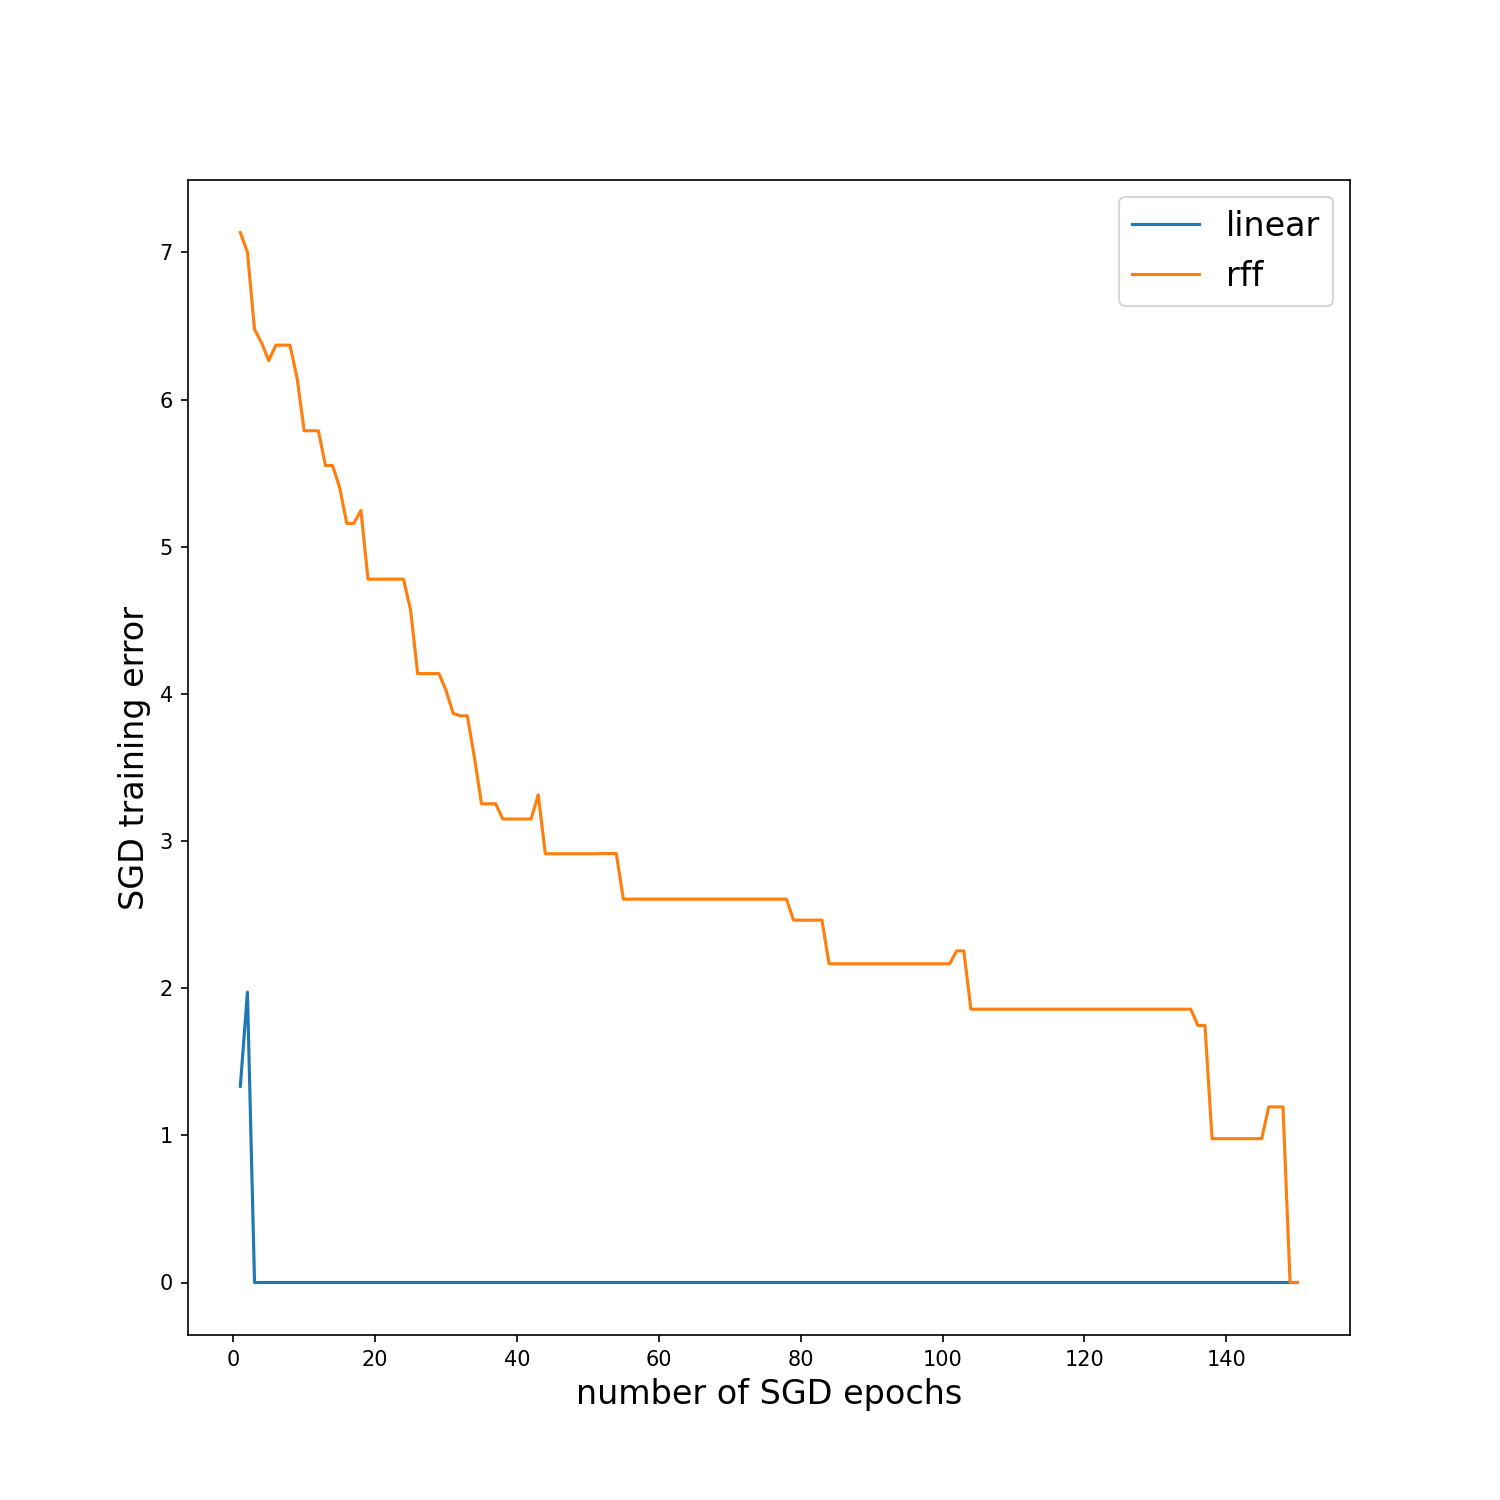
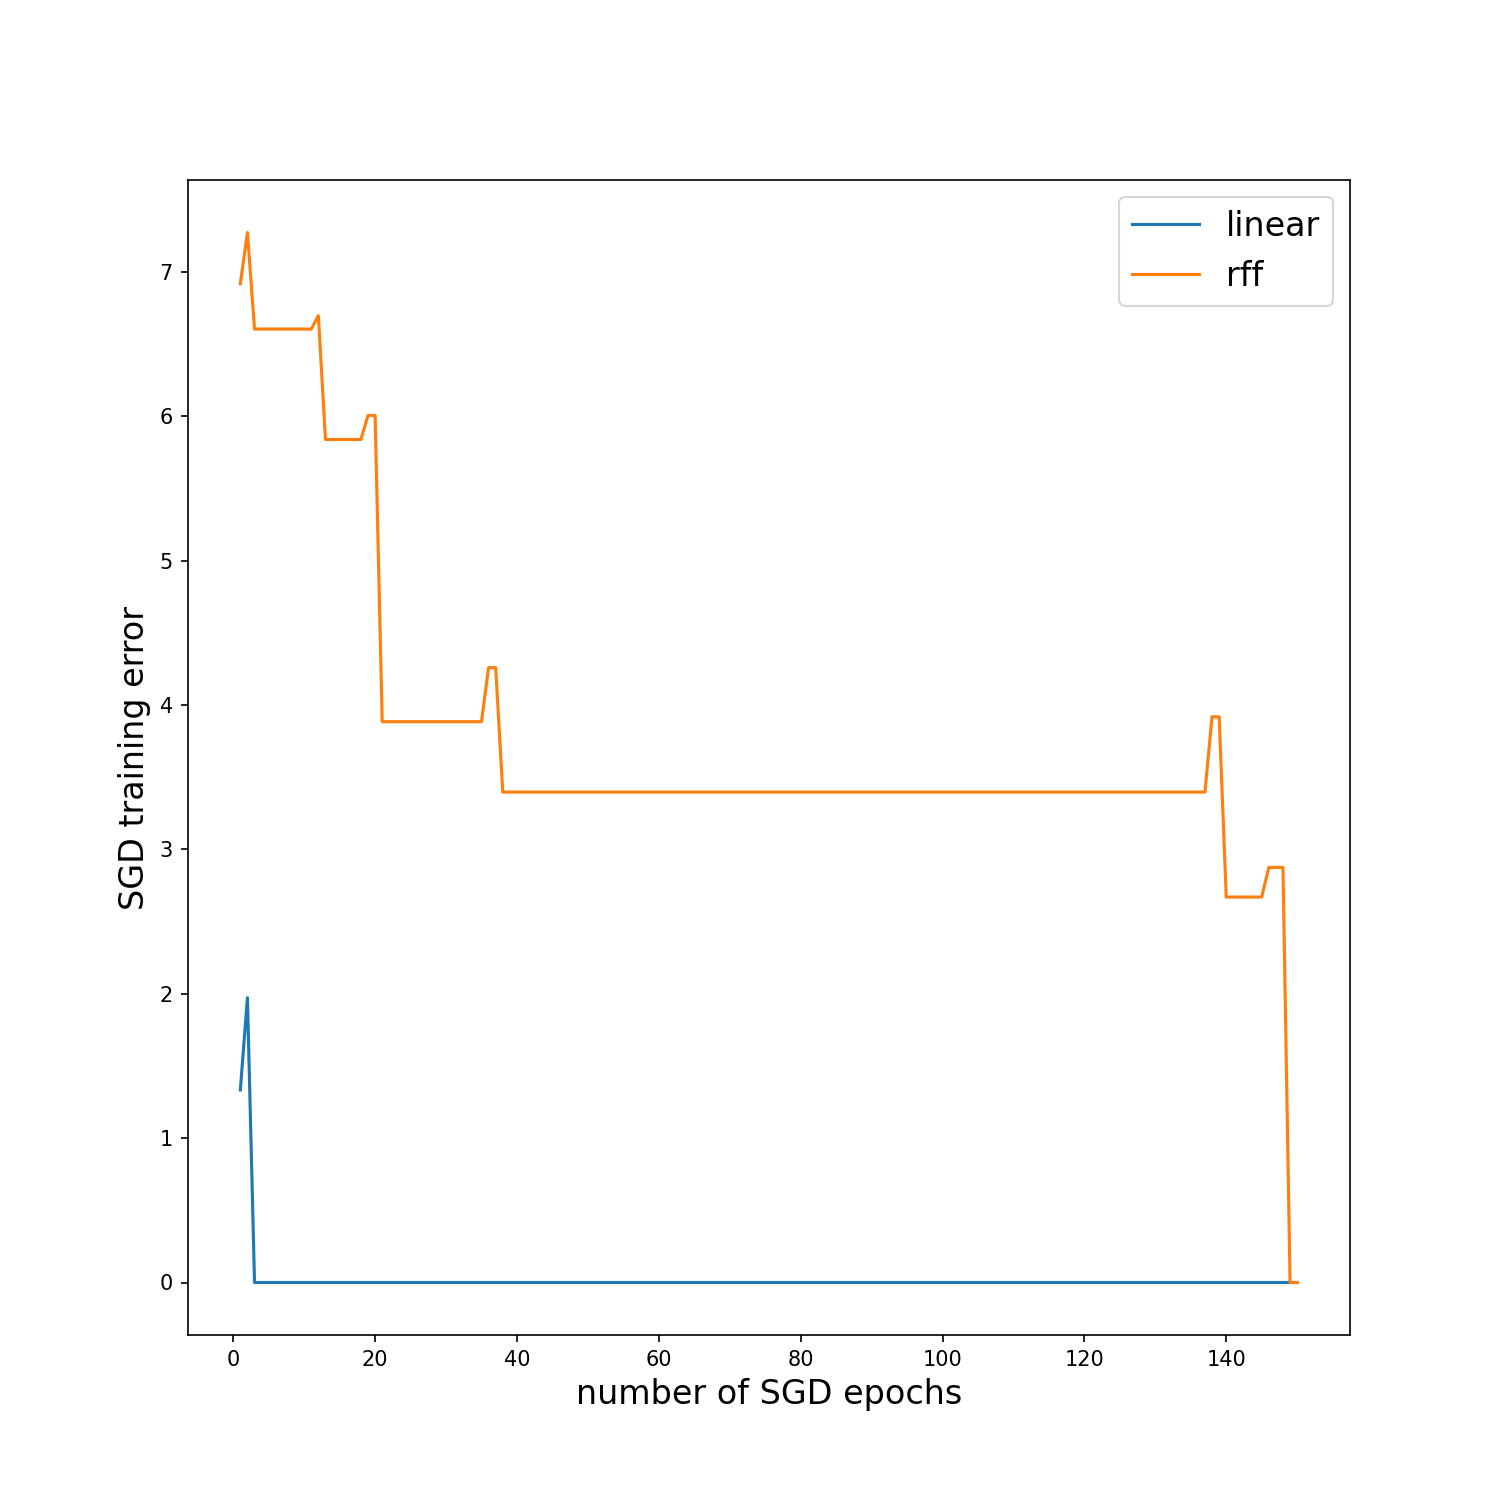
Ray works!!!

diff --git a/runner_mnist.py b/runner_mnist.py
@@ -53,8 +53,8 @@ def runner_mnist(path):
 
     # run sequential linear svm with optimized learning rate and regularisation parameter
     _, runtime, accuracy = sequential_svm(X_train, X_test, y_train, y_test, lr, reg)
-    print('Runtime with best parameters: {}'.format(runtime))
-    print('Accuracy with best parameters: {}'.format(accuracy))
+    print('Runtime with best parameters: {}'.format(round(runtime, 4)))
+    print('Accuracy with best parameters: {}'.format(round(accuracy, 4)))
 
     # run gridsearch on parallel linear svm with fixed number of 8 machines
     print('\n--- Parallel Linear SVM ---')
@@ -64,13 +64,13 @@ def runner_mnist(path):
 
     # run parallel linear svm with optimized learning rate and regularisation parameter with fixed number of 8 machines
     _, runtime, accuracy = parallel_svm(X_train, X_test, y_train, y_test, lr, reg)
-    print('Runtime with best parameters: {}'.format(runtime))
-    print('Accuracy with best parameters: {}'.format(accuracy))
+    print('Runtime with best parameters: {}'.format(round(runtime, 4)))
+    print('Accuracy with best parameters: {}'.format(round(accuracy, 4)))
 
     # run parallel linear svm with increasing number of machines
     # this run takes into account the learning rate and the regularisation parameter of the previous gridsearch
     print('Running parallel linear svm with increasing number of machines...')
-    number_of_machines = [1, 2, 3, 4, 5, 6, 7, 8]
+    number_of_machines = [1, 2, 3, 4]
     parallel_runtimes = []
     parallel_accuracies = []
     for num_threads in number_of_machines:
@@ -88,7 +88,7 @@ def runner_mnist(path):
     # create RFF features for the upcoming gridsearch procedure
     print('\n--- Compute RFF features ---')
     start = time.time()
-    nlf = NonLinearFeatures(m=1000, sigma=150)
+    nlf = NonLinearFeatures(m=1000, sigma=200)
     X_rff_train = nlf.fit_transform(X_train)
     X_rff_test = nlf.transform(X_test)
     end = time.time()
@@ -100,7 +100,7 @@ def runner_mnist(path):
     # run gridsearch on RFF feature hyperparameters (m, sigma) with optimized learning rate and regularisation parameter
     print('\n--- RFF Gridsearch ---')
     m_params = [1000, 2000, 3000]
-    sigma_params = [1, 100, 150, 200, 1000]
+    sigma_params = [1, 100, 200, 300, 1000]
     m_seq, sigma_seq = gridsearch_rff(sequential_svm, X_train, X_test, y_train, y_test, lr_seq, reg_seq,  m_params,
                                       sigma_params)
     print('Best feature dimension m: {}'.format(m_seq))
@@ -120,8 +120,8 @@ def runner_mnist(path):
     print('Best learning rate: {}'.format(lr_seq))
     print('Best regularization parameter: {}'.format(reg_seq))
     _, runtime, accuracy = sequential_svm(X_rff_train, X_rff_test, y_train, y_test, lr_seq, reg_seq)
-    print('Runtime with best parameters: {}'.format(runtime))
-    print('Accuracy with best parameters: {}'.format(accuracy))
+    print('Runtime with best parameters: {}'.format(round(runtime, 4)))
+    print('Accuracy with best parameters: {}'.format(round(accuracy, 4)))
 
     # run gridsearch on parallel RFF svm
     print('\n--- Parallel RFF SVM ---')
@@ -131,8 +131,8 @@ def runner_mnist(path):
 
     # run parallel RFF svm with optimized learning rate, regularisation parameter, feature dimension m, and sigma
     _, runtime, accuracy = parallel_svm(X_rff_train, X_rff_test, y_train, y_test, lr, reg)
-    print('Runtime with best parameters: {}'.format(runtime))
-    print('Accuracy with best parameters: {}'.format(accuracy))
+    print('Runtime with best parameters: {}'.format(round(runtime, 4)))
+    print('Accuracy with best parameters: {}'.format(round(accuracy, 4)))
 
     # make plots for runtime/performance comparison when training on 1000, 2000, 3000 training samples
     # and using own implementation vs. sklearn's svm.svc
@@ -157,13 +157,13 @@ def runner_mnist(path):
     axs[0].semilogy(training_size, runtimes_sklearn, label='sklearn')
     axs[0].set_xticks(training_size)
     axs[0].set_ylabel('runtime in seconds', fontsize=16)
-    axs[0].legend(fontsize=16)
+    axs[0].legend(fontsize=16, bbox_to_anchor=(1.02, 1))
     axs[1].plot(training_size, accuracies_sequential_rff, label='sequential RFF')
     axs[1].plot(training_size, accuracies_sklearn, label='sklearn')
     axs[1].set_xticks(training_size)
     axs[1].set_xlabel('training set size', fontsize=16)
     axs[1].set_ylabel('accuracy', fontsize=16)
-    axs[1].legend(fontsize=16)
-    plt.savefig('output/mnist_sequential_rff_vs_sklearn.png', dpi=150)
+    #axs[1].legend(fontsize=16, bbox_to_anchor=(1.04,1))
+    plt.savefig('output/mnist_sequential_rff_vs_sklearn.png', dpi=150, bbox_inches="tight")
 
     return number_of_machines, parallel_runtimes, parallel_accuracies

diff --git a/svm.py b/svm.py
@@ -1,4 +1,5 @@
 import numpy as np
+import ray
 
 
 class SequentialSVM:
@@ -42,7 +43,8 @@ class SequentialSVM:
 
             Returns
             -------
-            w : ndarray of shape m (binary classification), or (m, c) (multiclass classification)
+            w : ndarray of shape (m features) (binary classification), or (m features, c classes) (multiclass
+                classification).
                 An initial array of the specific dimension containing zeros.
         """
         if self.multiclass:
@@ -65,16 +67,16 @@ class SequentialSVM:
             Parameters
             ----------
             x : ndarray of shape (m features,)
-                training sample
+                Training sample
             y : float
-                label of the training sample
+                Label of the training sample
             w : ndarray of shape (m features,) or (m features, c classes)
-                current weight vector
+                Current weight vector
 
             Returns
             -------
             w : ndarray of shape (m features,) or (m features, c classes)
-                the updated weight vector
+                The updated weight vector
         """
         if self.multiclass:
             val = 0
@@ -192,7 +194,8 @@ class SequentialSVM:
 
 
 class ParallelSVM(SequentialSVM):
-    def __init__(self, learning_rate=1e-3, regularization_parameter=1e-2, num_threads=8):
+
+    def __init__(self, learning_rate=1e-3, regularization_parameter=1e-2, num_threads=4):
         """
         Parallel version of the SVM classifier class. The class takes one additional argument, which is the number of
         threads for the parallel SGD optimizer.
@@ -207,14 +210,14 @@ class ParallelSVM(SequentialSVM):
                 Number of threads for the parallelization
         """
         SequentialSVM.__init__(self, learning_rate, regularization_parameter)
-        self.n_threads = num_threads
+        self.num_threads = num_threads
 
     def fit(self, X, y):
         """
         Fit the SVM classifier to the given training data. The parallelized SGD algorithm splits the given data into
         approximately equally sized subsets. The number of subsets equals the number of threads. The runner is called
-        on each of the subsets. The final weight vector is the average of multiple runner jobs. It is stored within the
-        class for further label prediction of given test data.
+        on each of the subsets. The final weight vector w is the average of multiple runner jobs. It is stored within
+        the class for further label prediction of given test data.
 
             Parameters
             ----------
@@ -239,17 +242,42 @@ class ParallelSVM(SequentialSVM):
         b = np.ones((n_samples, 1))
         X = np.concatenate((X, b), axis=1)
 
-        sample_to_thread = np.random.randint(0, self.n_threads, n_samples)
-        Xs = [X[sample_to_thread == i] for i in range(self.n_threads)]
-        ys = [y[sample_to_thread == i] for i in range(self.n_threads)]
+        sample_to_thread = np.random.randint(0, self.num_threads, n_samples)
+        Xs = [X[sample_to_thread == i] for i in range(self.num_threads)]
+        ys = [y[sample_to_thread == i] for i in range(self.num_threads)]
 
-        ws = []
-        for Xi, yi in zip(Xs, ys):
-            ws.append(self.runner(Xi, yi))
+        ws = ray.get([self.runner.remote(self, Xi, yi) for Xi, yi in zip(Xs, ys)])
 
-        #ws = Parallel(n_jobs=self.n_threads, backend='threading')(delayed(self.runner)(Xi, yi) for Xi, yi in zip(Xs, ys))
+        self.w = sum(ws) / self.num_threads  # compute w by taking the average of sub_ws
 
-        self.w = sum(ws) / self.n_threads  # compute w by taking the average of sub_ws
+    @ray.remote
+    def runner(self, X, y):
+        """
+        Run the SGD optimizer on the given training data and return a weight vector w, which determines the decision
+        boundary.
+
+            Parameters
+            ----------
+            X : ndarray of shape (n samples, m features)
+                Training data
+            y : ndarray of shape (n samples,)
+                Training data labels
+
+            Returns
+            -------
+            w : ndarray of shape (m features,) or (m features, c classes)
+                the weight vector of the decision boundary
+        """
+        w = self._init_weights(X)
+
+        if self.store_sgd_progress:
+            for idx, x in enumerate(X):
+                self.stored_weights.append(np.array(w))
+                w = self._update_weights(x, y[idx], w)
+        else:
+            for idx, x in enumerate(X):
+                w = self._update_weights(x, y[idx], w)
+        return w
 
 
 class NonLinearFeatures:

diff --git a/runner_toydata.py b/runner_toydata.py
@@ -60,8 +60,8 @@ def runner_toydata(path, tiny):
     print('Best regularization parameter: {}'.format(reg))
     y_pred_seq_linear, runtime, accuracy = five_fold_cross_validation(sequential_svm, X_train, X_test, y_train,
                                                                       y_test, lr, reg)
-    print('Runtime with best parameters: {}'.format(runtime))
-    print('Accuracy with best parameters: {}'.format(accuracy))
+    print('Runtime with best parameters: {}'.format(round(runtime, 4)))
+    print('Accuracy with best parameters: {}'.format(round(accuracy, 4)))
     sgd_progress_linear = sgd_progress(sequential_svm, X_train, X_test, y_train, y_test, lr, reg)
 
     # run parallel linear svm
@@ -71,12 +71,12 @@ def runner_toydata(path, tiny):
     print('Best regularization parameter: {}'.format(reg))
     y_pred_par_linear, runtime, accuracy = five_fold_cross_validation(parallel_svm, X_train, X_test,
                                                                       y_train, y_test, lr, reg)
-    print('Runtime with best parameters: {}'.format(runtime))
-    print('Accuracy with best parameters: {}'.format(accuracy))
+    print('Runtime with best parameters: {}'.format(round(runtime, 4)))
+    print('Accuracy with best parameters: {}'.format(round(accuracy, 4)))
 
     # run parallel linear svm with increasing number of machines
     print('Running parallel linear svm with increasing number of machines...')
-    number_of_machines = [1, 2, 3, 4, 5, 6, 7, 8]
+    number_of_machines = [1, 2, 3, 4]
     parallel_runtimes = []
     parallel_accuracies = []
     for num_threads in number_of_machines:
@@ -103,8 +103,8 @@ def runner_toydata(path, tiny):
     print('Best regularization parameter: {}'.format(reg))
     y_pred_seq_rff, runtime, accuracy = five_fold_cross_validation(sequential_svm, X_rff_train, X_rff_test,
                                                                    y_train, y_test, lr, reg)
-    print('Runtime with best parameters: {}'.format(runtime))
-    print('Accuracy with best parameters: {}'.format(accuracy))
+    print('Runtime with best parameters: {}'.format(round(runtime, 4)))
+    print('Accuracy with best parameters: {}'.format(round(accuracy, 4)))
     sgd_progress_rff = sgd_progress(sequential_svm, X_rff_train, X_rff_test, y_train, y_test, lr, reg)
 
     # run parallel RFF svm
@@ -115,8 +115,8 @@ def runner_toydata(path, tiny):
     y_pred_par_rff, runtime, accuracy = five_fold_cross_validation(parallel_svm, X_rff_train, X_rff_test,
                                                                    y_train, y_test, lr, reg)
 
-    print('Runtime with best parameters: {}'.format(runtime))
-    print('Accuracy with best parameters: {}'.format(accuracy))
+    print('Runtime with best parameters: {}'.format(round(runtime, 4)))
+    print('Accuracy with best parameters: {}'.format(round(accuracy, 4)))
 
     # ---------- Plot results ----------
 

diff --git a/runner_svm_models.py b/runner_svm_models.py
@@ -1,6 +1,7 @@
 from sklearn.metrics import accuracy_score
 from sklearn.svm import SVC
 import time
+import ray
 
 from svm import SequentialSVM, ParallelSVM
 
@@ -80,7 +81,7 @@ def sequential_svm(X_train, X_test, y_train, y_test, learning_rate, regularizati
         return y_predicted, runtime, accuracy
 
 
-def parallel_svm(X_train, X_test, y_train, y_test, learning_rate, regularization, num_threads=8):
+def parallel_svm(X_train, X_test, y_train, y_test, learning_rate, regularization, num_threads=4):
     """
     Train the own parallel implementation of an SVC, predict labels, and calculate the accuracy on given test set.
 
@@ -111,7 +112,7 @@ def parallel_svm(X_train, X_test, y_train, y_test, learning_rate, regularization
     clf.fit(X_train, y_train)
     y_predicted = clf.predict(X_test)
     end = time.time()
-    runtime = (end - start) / num_threads
+    runtime = end - start
     accuracy = accuracy_score(y_test, y_predicted)
 
     return y_predicted, runtime, accuracy

diff --git a/utils.py b/utils.py
@@ -297,6 +297,7 @@ def plot_parallel_runtimes(number_of_machines_tiny, number_of_machines_large, nu
     plt.plot(number_of_machines_large, parallel_runtimes_large)
     plt.plot(number_of_machines_mnist, parallel_runtimes_mnist)
     plt.xlabel('Number of machines', fontsize=16)
+    plt.xticks(number_of_machines_tiny)
     plt.ylabel('Runtime in seconds', fontsize=16)
     plt.legend(['tiny toydata', 'large toydata', 'MNIST'], fontsize=16)
     plt.savefig(path, dpi=150)
@@ -327,6 +328,7 @@ def plot_parallel_accuracies(number_of_machines_tiny, number_of_machines_large, 
     plt.plot(number_of_machines_large, parallel_accuracies_large)
     plt.plot(number_of_machines_mnist, parallel_accuracies_mnist)
     plt.xlabel('Number of machines', fontsize=16)
+    plt.xticks(number_of_machines_tiny)
     plt.ylabel('Accuracy', fontsize=16)
     plt.legend(['tiny toydata', 'large toydata', 'MNIST'], fontsize=16)
     plt.savefig(path, dpi=150)

diff --git a/main.py b/main.py
@@ -2,8 +2,12 @@ from runner_toydata import runner_toydata
 from runner_mnist import runner_mnist
 from utils import plot_parallel_runtimes, plot_parallel_accuracies
 
+import ray
+
 
 if __name__ == '__main__':
+    # initialize parallelization library
+    ray.init()
 
     # set paths
     toy_tiny = 'data/toydata_tiny.csv'
@@ -22,3 +26,6 @@ if __name__ == '__main__':
     plot_parallel_accuracies(number_of_machines_tiny, number_of_machines_large, number_of_machines_mnist,
                              parallel_accuracies_tiny, parallel_accuracies_large, parallel_accuracies_mnist,
                              'output/parallel_accuracies.png')
+
+    # close parallelization library
+    ray.shutdown()
